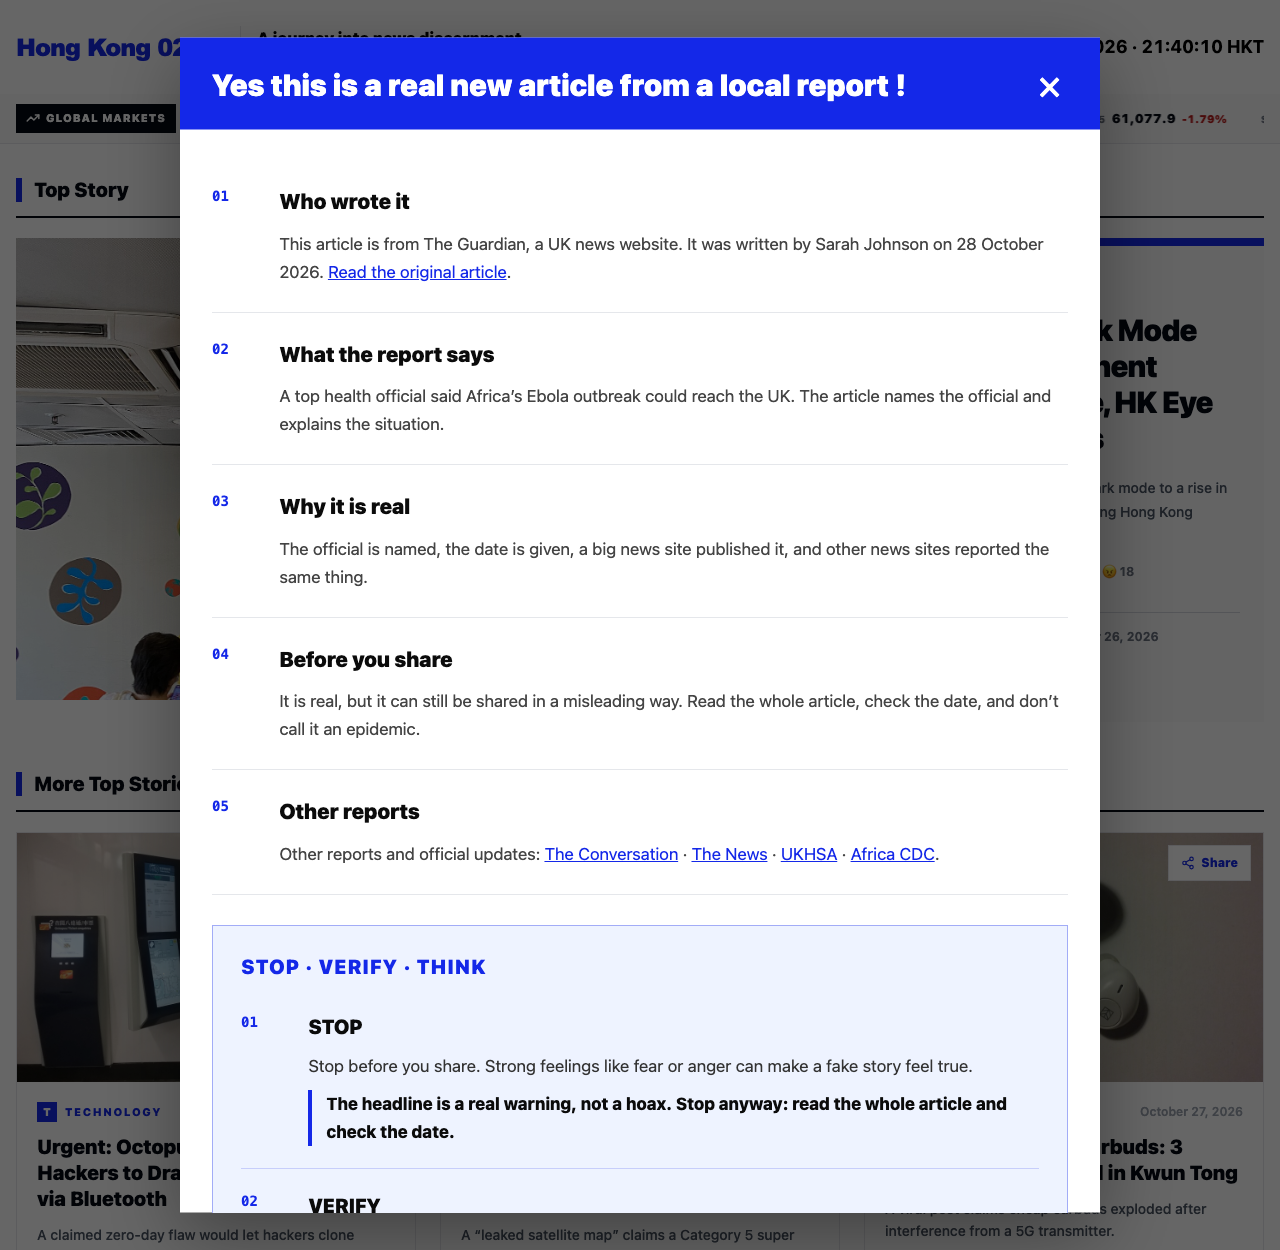
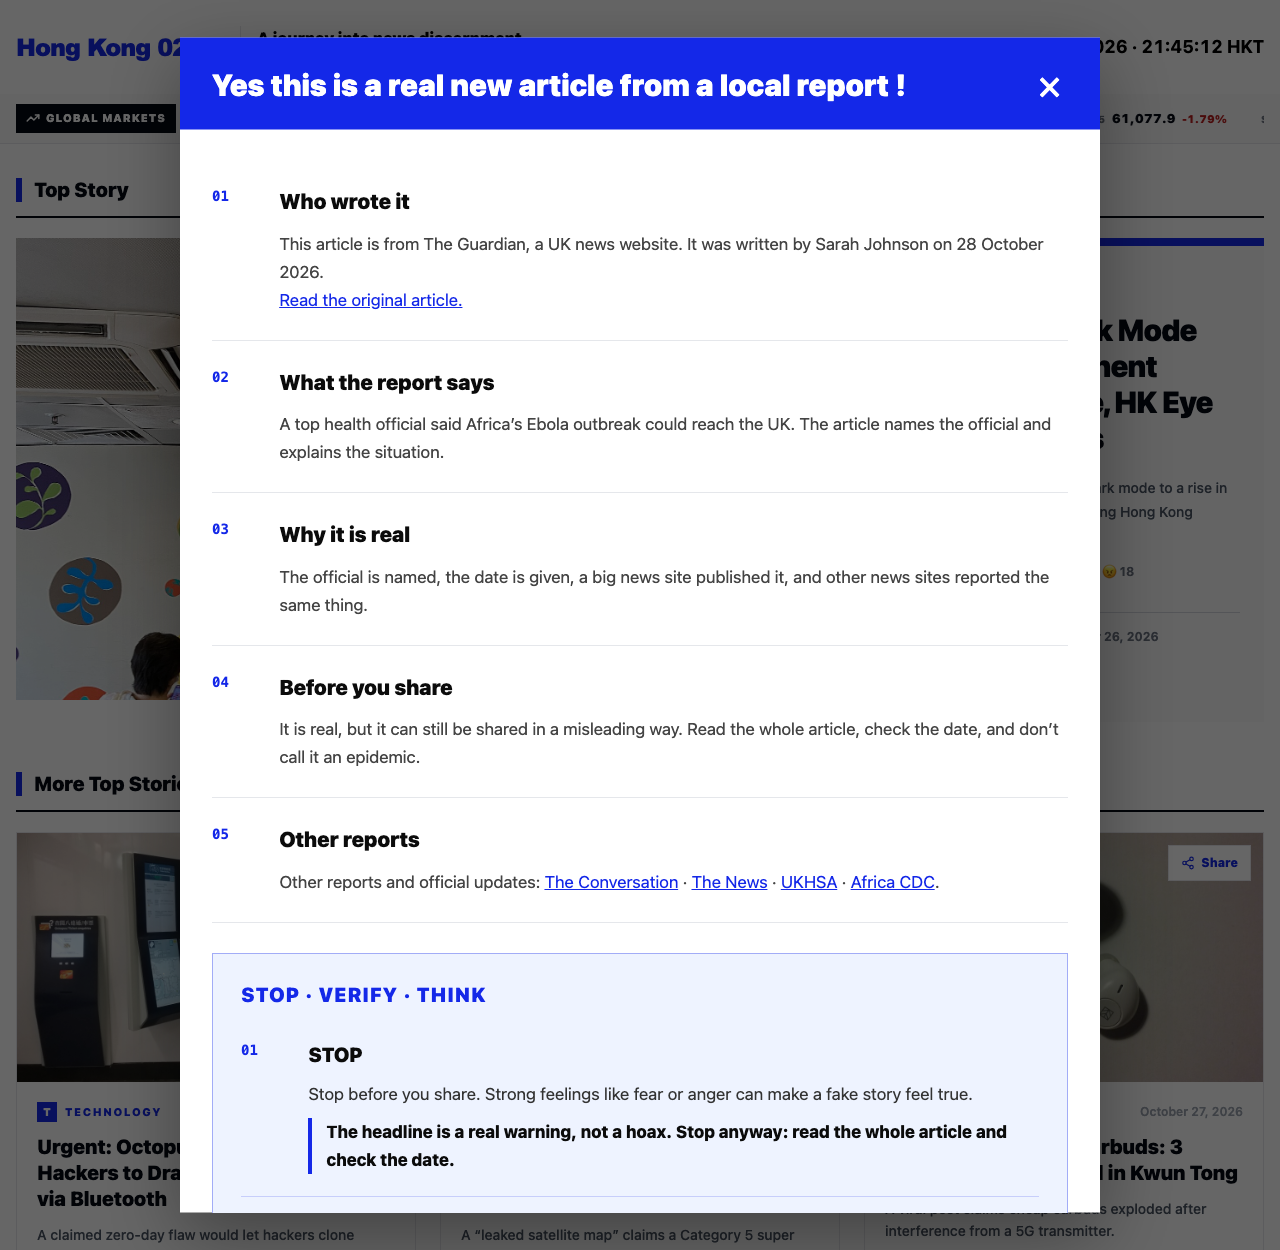
Put source link on its own line and restore video button after fullscreen

diff --git a/data/articles.js b/data/articles.js
@@ -2054,7 +2054,7 @@ module.exports = [
     "popupTitleEn": "Real news: this story is from The Guardian.",
     "popupWhyEn": "The article is a genuine report by the Guardian’s global development desk, dated 28 October 2026, and quotes a named top health official.",
     "popupBodyEn": "The story has a traceable publisher and date. It is not a simulated or AI-generated story.",
-    "warningSource": "This article is from The Guardian, a UK news website. It was written by Sarah Johnson on 28 October 2026. <a href=\"https://www.theguardian.com/global-development/2026/oct/28/africa-ebola-outbreak-could-reach-uk-says-top-health-official\" target=\"_blank\" rel=\"noopener\">Read the original article</a>.",
+    "warningSource": "This article is from The Guardian, a UK news website. It was written by Sarah Johnson on 28 October 2026.<br><a href=\"https://www.theguardian.com/global-development/2026/oct/28/africa-ebola-outbreak-could-reach-uk-says-top-health-official\" target=\"_blank\" rel=\"noopener\">Read the original article.</a>",
     "warningReport": "A top health official said Africa’s Ebola outbreak could reach the UK. The article names the official and explains the situation.",
     "warningWhy": "The official is named, the date is given, a big news site published it, and other news sites reported the same thing.",
     "warningPause": "It is real, but it can still be shared in a misleading way. Read the whole article, check the date, and don’t call it an epidemic.",

diff --git a/public/js/app.js b/public/js/app.js
@@ -267,7 +267,9 @@
     });
     $('share-video-btn').addEventListener('click', () => {
       const frame = $('share-video-frame');
+      const btn = $('share-video-btn');
       frame.style.display = 'block';
+      btn.style.display = 'none';
       const iframe = frame.querySelector('iframe');
       iframe.src = 'https://www.youtube.com/embed/MtEe3NJnqQs?autoplay=1&rel=0';
       if (frame.requestFullscreen) frame.requestFullscreen().catch(() => {});
@@ -275,6 +277,15 @@
       const sc = $('share-warning').querySelector('.popup-scroll');
       if (sc) sc.scrollTop = sc.scrollHeight;
     });
+    function onVideoFullscreenChange() {
+      const fsEl = document.fullscreenElement || document.webkitFullscreenElement;
+      if (!fsEl) {
+        $('share-video-frame').style.display = 'none';
+        $('share-video-btn').style.display = '';
+      }
+    }
+    document.addEventListener('fullscreenchange', onVideoFullscreenChange);
+    document.addEventListener('webkitfullscreenchange', onVideoFullscreenChange);
     document.addEventListener('keydown', (e) => { if (e.key === 'Escape') closeShare(); });
   }
 
@@ -535,6 +546,9 @@
         if (q.get('ai') === '1' && q.get('warn') === '1') {
           $('share-tips').style.display = 'none';
           $('share-ai-intro').style.display = '';
+        }
+        if (q.get('video') === '1' && q.get('warn') === '1') {
+          $('share-video-btn').click();
         }
       });
     }

diff --git a/public/js/article.js b/public/js/article.js
@@ -423,7 +423,9 @@
     });
     $('warn-video-btn').addEventListener('click', () => {
       const frame = $('warn-video-frame');
+      const btn = $('warn-video-btn');
       frame.style.display = 'block';
+      btn.style.display = 'none';
       const iframe = frame.querySelector('iframe');
       iframe.src = 'https://www.youtube.com/embed/MtEe3NJnqQs?autoplay=1&rel=0';
       if (frame.requestFullscreen) frame.requestFullscreen().catch(() => {});
@@ -431,6 +433,15 @@
       const sc = $('inspector').querySelector('.popup-scroll');
       if (sc) sc.scrollTop = sc.scrollHeight;
     });
+    function onVideoFullscreenChange() {
+      const fsEl = document.fullscreenElement || document.webkitFullscreenElement;
+      if (!fsEl) {
+        $('warn-video-frame').style.display = 'none';
+        $('warn-video-btn').style.display = '';
+      }
+    }
+    document.addEventListener('fullscreenchange', onVideoFullscreenChange);
+    document.addEventListener('webkitfullscreenchange', onVideoFullscreenChange);
     document.addEventListener('keydown', (e) => { if (e.key === 'Escape') { closeInspector(); closeConfirm(); } });
 
     if (!slug) {
